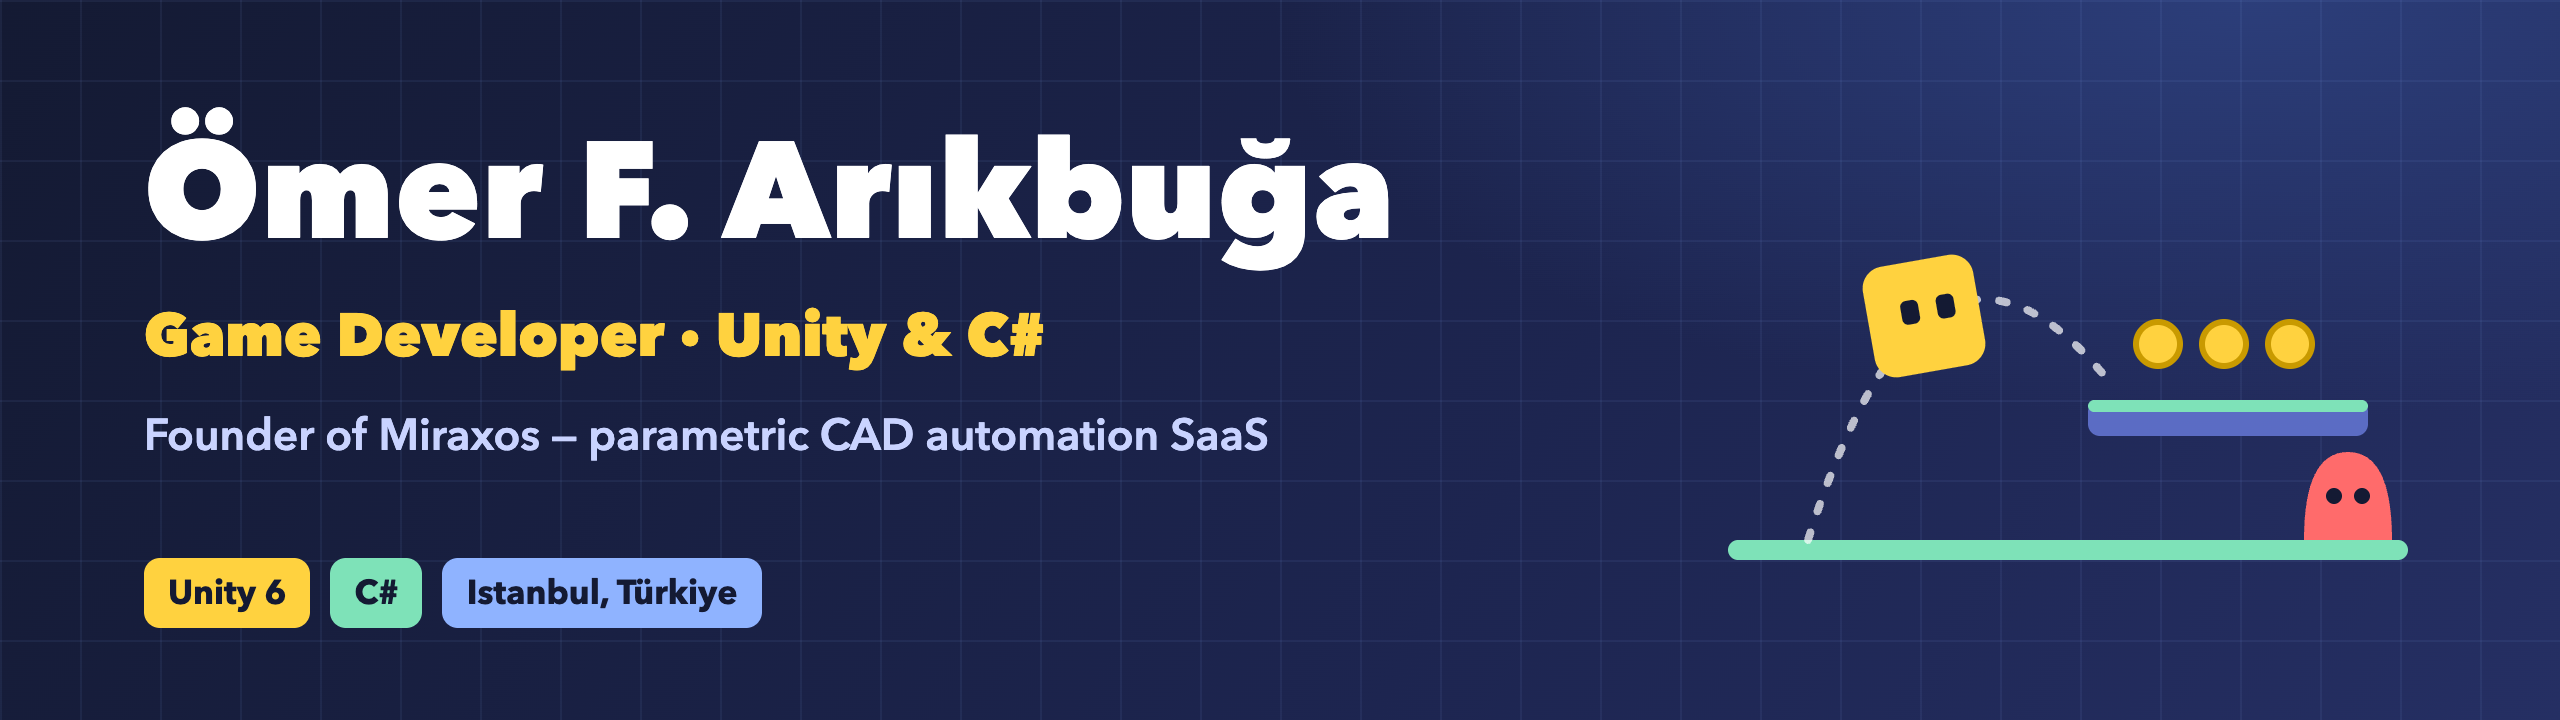
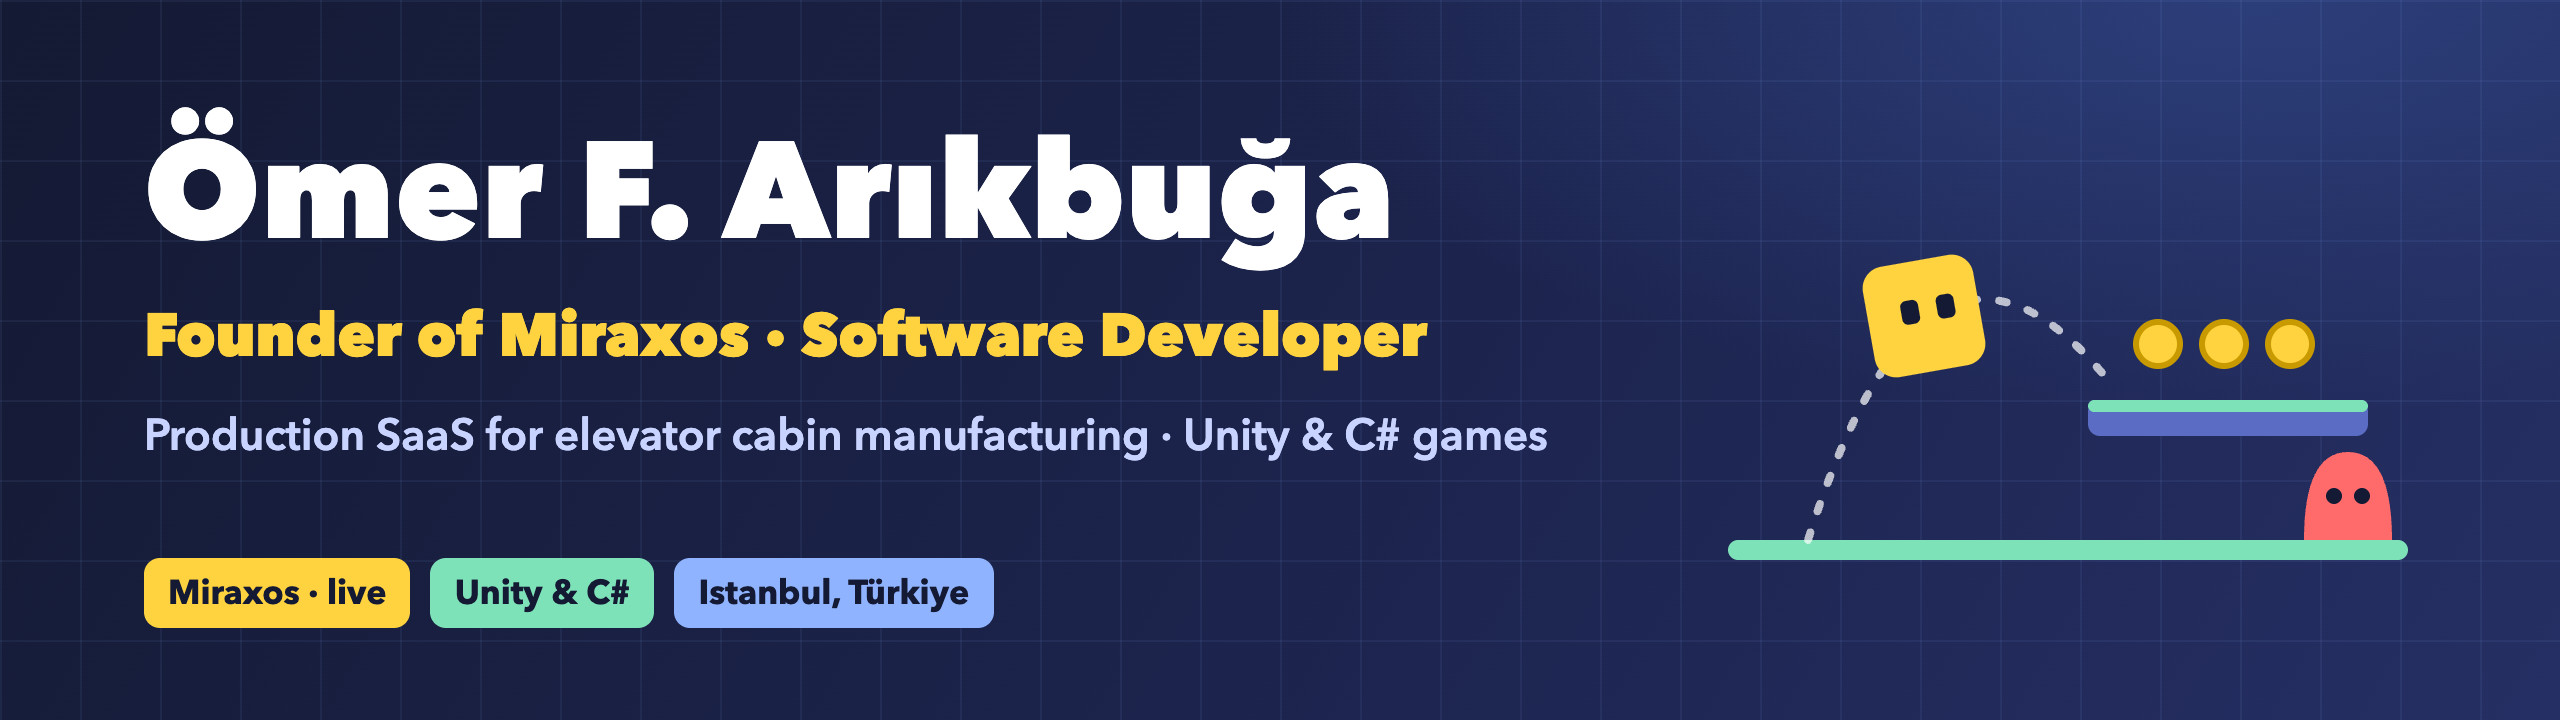
Profile: lead with Miraxos; Software Developer headline

Changed region(s): [[0.0625, 0.4278, 0.5625, 0.5194], [0.0625, 0.7639, 0.4062, 0.8861], [0.0625, 0.5806, 0.625, 0.6417]]

diff --git a/README.md b/README.md
@@ -1,13 +1,24 @@
 <p align="center">
-  <img src="assets/banner.png" alt="Ömer F. Arıkbuğa — Game Developer · Unity & C# · Founder of Miraxos" width="100%">
+  <img src="assets/banner.png" alt="Ömer F. Arıkbuğa — Founder of Miraxos · Software Developer · Unity & C#" width="100%">
 </p>
 
 ### 👋 Hi, I'm Ömer
 
-I build games with **Unity & C#**, and I'm the founder of **[Miraxos](https://miraxos.com)** — a SaaS that turns customer
-dimensions into production-ready CAD drawings for elevator cabin manufacturers.
+I'm the founder of **[Miraxos](https://miraxos.com)** — a SaaS that turns elevator cabin dimensions into production-ready
+CAD drawings and work orders, live and used by manufacturers in Türkiye. I also build games with **Unity & C#**.
 
-I'm working toward a **Junior Unity Developer** role: learning by building, releasing versions and documenting what I make.
+---
+
+### 🚀 Miraxos — Founder
+
+Parametric CAD automation for elevator cabin manufacturing: engineers upload DXF part templates, customers enter their
+dimensions, and Miraxos generates production-ready DXF drawings and work orders. Live at **[miraxos.com](https://miraxos.com)**.
+
+![Next.js](https://img.shields.io/badge/Next.js-000000?style=for-the-badge&logo=nextdotjs&logoColor=white)
+![TypeScript](https://img.shields.io/badge/TypeScript-3178C6?style=for-the-badge&logo=typescript&logoColor=white)
+![Python](https://img.shields.io/badge/Python-3776AB?style=for-the-badge&logo=python&logoColor=white)
+![Supabase](https://img.shields.io/badge/Supabase-3FCF8E?style=for-the-badge&logo=supabase&logoColor=white)
+![PostgreSQL](https://img.shields.io/badge/PostgreSQL-4169E1?style=for-the-badge&logo=postgresql&logoColor=white)
 
 ---
 
@@ -33,19 +44,6 @@ I'm working toward a **Junior Unity Developer** role: learning by building, rele
     </td>
   </tr>
 </table>
-
----
-
-### 🚀 Founder · Miraxos
-
-Parametric CAD automation for elevator cabin manufacturing: engineers upload DXF part templates, customers enter their
-dimensions, and Miraxos generates production-ready DXF drawings and work orders. Live at **[miraxos.com](https://miraxos.com)**.
-
-![Next.js](https://img.shields.io/badge/Next.js-000000?style=for-the-badge&logo=nextdotjs&logoColor=white)
-![TypeScript](https://img.shields.io/badge/TypeScript-3178C6?style=for-the-badge&logo=typescript&logoColor=white)
-![Python](https://img.shields.io/badge/Python-3776AB?style=for-the-badge&logo=python&logoColor=white)
-![Supabase](https://img.shields.io/badge/Supabase-3FCF8E?style=for-the-badge&logo=supabase&logoColor=white)
-![PostgreSQL](https://img.shields.io/badge/PostgreSQL-4169E1?style=for-the-badge&logo=postgresql&logoColor=white)
 
 ---
 
